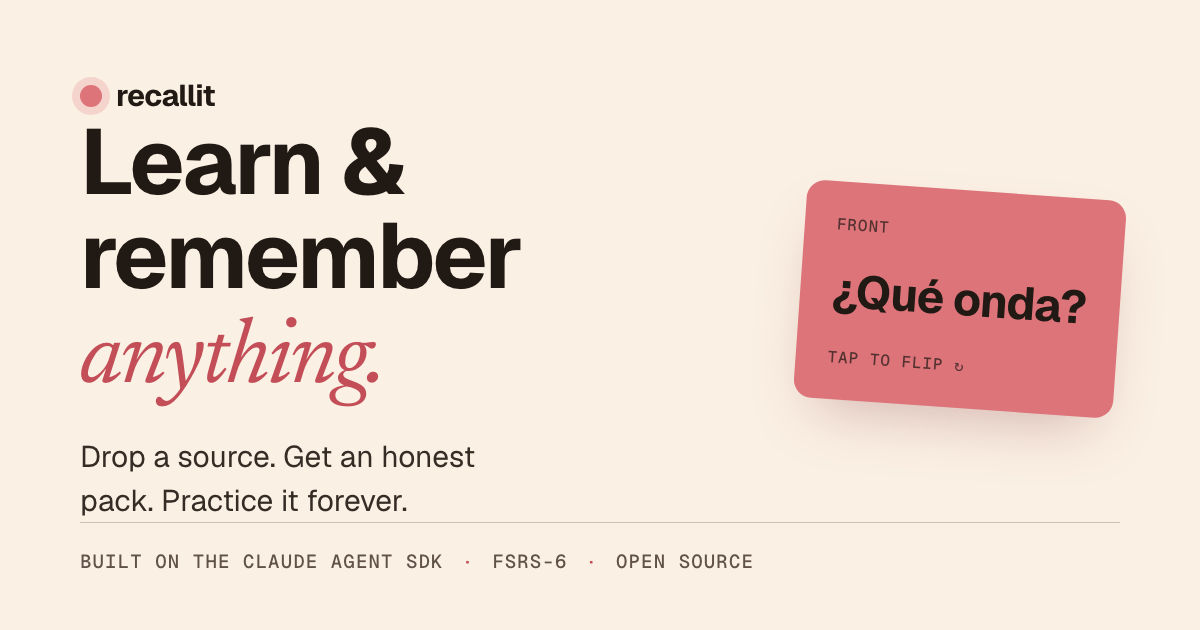
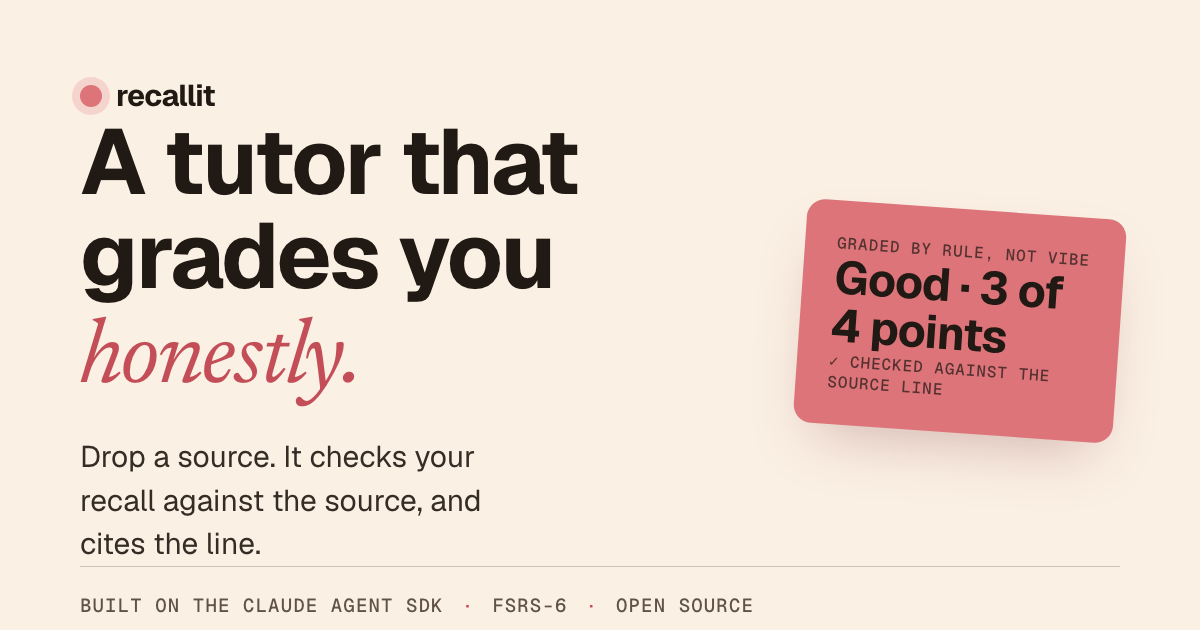
feat(marketing): reframe landing around the source-grounded tutor
Align the landing with the new vision + the simplify recs: lead with ONE hero
line ('Drop a source. Get a tutor that grades you honestly'), demote FSRS out
of the hero, keyless demo as the primary CTA, the wedge as the three pillars
(cites a line you can check / graded by rule not vibe / your files your call),
voice demoted to a one-line follow-on, one-deploy-one-user reframed as trust.
The hero + OG card now show the honest grade receipt. Plume tokens reused;
no em dashes; no overflow at 60rem/40rem. Built with /impeccable +
/emil-design-engineering + /frontend-design as lenses.

diff --git a/marketing/index.html b/marketing/index.html
@@ -3,26 +3,26 @@
   <head>
     <meta charset="utf-8" />
     <meta name="viewport" content="width=device-width, initial-scale=1" />
-    <title>recallit · learn &amp; remember anything</title>
+    <title>recallit · drop a source, get a tutor that grades you honestly</title>
     <meta
       name="description"
-      content="recallit turns any subject into spaced-repetition flashcards and brings them back right before you'd forget. A language, a programming language, a book, a film, anything you study can be a pack."
+      content="recallit turns any source (a book, a course, a paper, a language) into an honest study pack, then tests your recall and checks your answer against the source. Every card cites a line you can check, and code owns the grade, not the model."
     />
     <link rel="icon" href="favicon.svg" type="image/svg+xml" />
     <meta property="og:type" content="website" />
-    <meta property="og:title" content="recallit · learn &amp; remember anything" />
+    <meta property="og:title" content="recallit · a tutor that grades you honestly" />
     <meta
       property="og:description"
-      content="Drop a source. Get an honest pack. Practice it forever. It comes back right before you'd forget."
+      content="Drop a source. recallit tests your recall and checks your answer against the source, citing the exact line. Code owns the grade, not the model."
     />
     <meta property="og:image" content="og.png" />
     <meta property="og:image:width" content="1200" />
     <meta property="og:image:height" content="630" />
     <meta name="twitter:card" content="summary_large_image" />
-    <meta name="twitter:title" content="recallit · learn &amp; remember anything" />
+    <meta name="twitter:title" content="recallit · a tutor that grades you honestly" />
     <meta
       name="twitter:description"
-      content="Drop a source. Get an honest pack. Practice it forever. It comes back right before you'd forget."
+      content="Drop a source. recallit tests your recall and checks your answer against the source, citing the exact line. Code owns the grade, not the model."
     />
     <meta name="twitter:image" content="og.png" />
     <link rel="preconnect" href="https://fonts.googleapis.com" />
@@ -45,18 +45,18 @@
     <main id="top">
       <section class="wrap hero">
         <div class="hero__copy">
-          <span class="hero__kicker label">Recall engine</span>
-          <h1>Learn &amp; remember <em>anything.</em></h1>
+          <span class="hero__kicker label">Source-grounded tutor</span>
+          <h1>Drop a source. Get a tutor that <em>grades you honestly.</em></h1>
           <p class="hero__lede">
-            Drop in a source: a PDF, a repo, a web page, or just a topic you name. recallit builds an
-            honest pack of cards and brings each one back right before you'd forget. Practice by
-            typing, or out loud.
+            Point it at a book, a course, a paper, or a language. recallit builds an honest study
+            pack, then asks you to recall it in your own words and checks your answer against the
+            source, citing the exact line. It comes back before you'd forget.
           </p>
           <div class="hero__cta">
-            <a class="btn btn--primary" href="demo/index.html">Try it in 30 seconds →</a>
+            <a class="btn btn--primary" href="demo/index.html">Try it, no setup →</a>
             <a class="btn btn--ghost" href="https://github.com/ryanwaits/recallit">★ Star on GitHub</a>
           </div>
-          <p class="hero__note">Runs in your terminal or browser. Bun + TypeScript. Scheduling by <code>FSRS-6</code>.</p>
+          <p class="hero__note">Your cards are files on your disk. No accounts, no cloud. Runs in your terminal or browser.</p>
         </div>
 
         <div
@@ -64,18 +64,18 @@
           tabindex="0"
           role="button"
           aria-pressed="false"
-          aria-label="Example flashcard. Front: ¿Qué onda? Activate to reveal the answer."
+          aria-label="Example recall question. Front: Why is the engine topic-agnostic? Activate to reveal how recallit grades your answer."
         >
           <div class="flip__inner">
             <div class="flip__face flip__face--front">
-              <span class="flip__hint">Front</span>
-              <span class="flip__es">¿Qué onda?</span>
-              <span class="flip__hint">Tap to flip ↻</span>
+              <span class="flip__hint">Recall, in your words</span>
+              <span class="flip__es">Why is the engine topic-agnostic?</span>
+              <span class="flip__hint">Answer, then flip ↻</span>
             </div>
             <div class="flip__face flip__face--back">
-              <span class="flip__hint">Back</span>
-              <span class="flip__en">What's up? / How's it going?</span>
-              <span class="flip__hint">From the Mexican-Spanish pack</span>
+              <span class="flip__hint">Graded by rule, not vibe</span>
+              <span class="flip__en">Good · 3 of 4 key points</span>
+              <span class="flip__hint">✓ checked against the source line</span>
             </div>
           </div>
         </div>
@@ -91,38 +91,39 @@
 
       <section class="wrap section loop-section">
         <div class="section__head reveal">
-          <h2>Drop a source. Keep it forever.</h2>
+          <h2>Drop a source. Learn it for real.</h2>
           <p>
-            One honest loop. The cards trace back to your source, and the schedule is math, not a
-            guess.
+            One honest loop: what you study traces back to your source, and the grade is a rule, not
+            the model's mood.
           </p>
         </div>
         <ol class="loop">
           <li class="loop__step reveal">
             <span class="loop__num">01</span>
             <h3>Drop a source</h3>
-            <p>A PDF, a repo, a web page, or a topic you name. recallit reads it and writes the cards.</p>
+            <p>A book, a course, a paper, a repo, a language. recallit reads it and writes the pack.</p>
           </li>
           <li class="loop__step reveal">
             <span class="loop__num">02</span>
             <h3>Get an honest pack</h3>
-            <p>Every card cites a real quote from your source. Anything it can't verify is held back, not invented.</p>
+            <p>Every card cites a verbatim line from your source. What it can't verify, it holds back instead of inventing.</p>
           </li>
           <li class="loop__step reveal">
             <span class="loop__num">03</span>
-            <h3>Practice it forever</h3>
-            <p>Type or speak your answers. FSRS-6 brings each card back right before you'd forget.</p>
+            <h3>Get tested, graded honestly</h3>
+            <p>Recall it in your own words. recallit checks your answer against the source's points, grades it by rule, then brings it back before you'd forget.</p>
           </li>
         </ol>
       </section>
 
       <section class="wrap section" id="generate">
         <div class="section__head reveal">
-          <span class="label">Recorded run · real API call</span>
-          <h2>Watch the gate hold the line.</h2>
+          <span class="label">How it stays honest · recorded run</span>
+          <h2>The gate holds the line.</h2>
           <p>
             A real <code>recallit pack</code> run over this repo's own README, captured verbatim.
-            Each card must quote the source literally; the one it couldn't verify, it held back.
+            Each card must quote the source literally; the one it couldn't verify, it held back. No
+            model ever picks a rating: the answer is checked, code decides.
           </p>
         </div>
         <div class="gen reveal">
@@ -151,10 +152,11 @@
       <section class="examples">
         <div class="wrap section">
           <div class="section__head reveal">
-            <h2>If you can study it, it's a pack.</h2>
+            <h2>A fact, or a whole idea.</h2>
             <p>
-              A pack is just cards: a front, a back, and recallit handles the timing. The engine
-              knows nothing about the subject, so bring any one you like.
+              Drill a one-word answer or recall a full idea in your own words. recallit checks both
+              against your source the same honest way. The engine knows nothing about the subject, so
+              bring any one you like.
             </p>
           </div>
           <div class="gallery" aria-label="Example packs across subjects">
@@ -189,9 +191,9 @@
               <p class="mini__a">C, E, G.</p>
             </article>
             <article class="mini reveal">
-              <span class="mini__tag label">A paper</span>
-              <p class="mini__q">What did "Attention Is All You Need" propose?</p>
-              <p class="mini__a">The Transformer: sequence modeling by self-attention, no recurrence.</p>
+              <span class="mini__tag label">Comprehension</span>
+              <p class="mini__q">Explain what "Attention Is All You Need" proposed.</p>
+              <p class="mini__a">The Transformer: sequence modeling by self-attention, no recurrence. (graded on the points, not the wording)</p>
             </article>
             <article class="mini reveal">
               <span class="mini__tag label">Biology</span>
@@ -204,33 +206,34 @@
 
       <section class="wrap section">
         <div class="section__head reveal">
-          <h2>Why it sticks.</h2>
-          <p>Three things do the heavy lifting, so you don't have to.</p>
+          <h2>Why you can trust it.</h2>
+          <p>The hard part was never flashcards. It's grading you honestly, and proving it.</p>
         </div>
         <div class="cards">
           <article class="card reveal">
-            <span class="label">Spaced repetition</span>
-            <h3>Shows up before you forget</h3>
-            <p>recallit schedules every card with FSRS-6, the same memory math the best study apps use. Less cramming, more remembering.</p>
+            <span class="label">Honest by construction</span>
+            <h3>Cites a line you can check</h3>
+            <p>Every card, and every point it grades you on, traces to a verbatim line from your source. What it can't verify, it holds back instead of inventing.</p>
           </article>
           <article class="card reveal">
-            <span class="label">Voice</span>
-            <h3>Say it out loud</h3>
-            <p>Voice packs let you answer aloud and hear a tutor speak back. Built for anything you want to say, not just recognize.</p>
+            <span class="label">Code-owned grading</span>
+            <h3>Graded by rule, not vibe</h3>
+            <p>A deterministic rule scores your answer against the source's points. The tutor can examine and explain; it never picks the grade. No "the AI says you understood."</p>
           </article>
           <article class="card reveal">
-            <span class="label">Plain files</span>
-            <h3>Your cards, your files</h3>
-            <p>Every card is plain Markdown on your disk. Read them, edit them, back them up, hand a pack to a friend.</p>
+            <span class="label">Yours</span>
+            <h3>Your files, your call</h3>
+            <p>Your cards are plain files on your disk. No accounts, no cloud, no one can change your grade, including us.</p>
           </article>
         </div>
+        <p class="reveal voice-note">And it can talk: voice packs let you answer aloud and hear it back, on your own keys.</p>
       </section>
 
       <section class="examples" id="install">
         <div class="wrap section install__inner">
           <div class="reveal">
-            <h2>Run it with one command.</h2>
-            <p>No install: <code>bunx @waits/recallit</code> runs the CLI. Point it at a source to generate an honest pack, then practice in your terminal. For the voiced browser session, clone the repo and <code>bun run serve</code>.</p>
+            <h2>Run it on your own sources.</h2>
+            <p>The demo above needs no keys. When you're ready for your own material, <code>bunx @waits/recallit</code>: point it at a source to build a pack, then <code>daily</code> to study and be graded. (<code>pack</code> and <code>daily</code> run on your own <code>ANTHROPIC_API_KEY</code>; voice adds a voice key.)</p>
             <div class="install__cta">
               <a class="btn btn--primary" href="https://github.com/ryanwaits/recallit">★ Star on GitHub</a>
               <a class="btn btn--ghost" href="https://github.com/ryanwaits/recallit#readme">Read the docs →</a>
@@ -251,10 +254,10 @@ bunx @waits/recallit <span class="p">daily</span></pre>
 
       <section class="wrap">
         <div class="cta reveal">
-          <h2>Start remembering.</h2>
-          <p>Try the Spanish pack in a minute, or bring the subject you've been meaning to learn.</p>
+          <h2>Bring something you want to understand.</h2>
+          <p>Try the live demo in a minute, no keys, then point it at the book or course you've been meaning to learn.</p>
           <div class="hero__cta">
-            <a class="btn btn--primary" href="demo/index.html">Try it in 30 seconds →</a>
+            <a class="btn btn--primary" href="demo/index.html">Try it, no setup →</a>
             <a class="btn btn--ghost" href="https://github.com/ryanwaits/recallit">★ Star on GitHub</a>
           </div>
         </div>
@@ -262,7 +265,7 @@ bunx @waits/recallit <span class="p">daily</span></pre>
     </main>
 
     <footer class="wrap foot">
-      <p class="foot__statement">Learn &amp; remember <em>anything.</em></p>
+      <p class="foot__statement">An honest tutor for <em>anything.</em></p>
       <div class="foot__meta">
         <nav class="foot__links" aria-label="Footer">
           <a href="https://github.com/ryanwaits/recallit">GitHub</a>

diff --git a/marketing/og-card.html b/marketing/og-card.html
@@ -84,13 +84,13 @@
   <body>
     <span class="brand"><span class="dot"></span>recallit</span>
     <div class="copy">
-      <h1>Learn &amp; remember <em>anything.</em></h1>
-      <p class="sub">Drop a source. Get an honest pack. Practice it forever.</p>
+      <h1>A tutor that grades you <em>honestly.</em></h1>
+      <p class="sub">Drop a source. It checks your recall against the source, and cites the line.</p>
     </div>
     <div class="card">
-      <span class="tag">Front</span>
-      <span class="q">¿Qué onda?</span>
-      <span class="tag">Tap to flip ↻</span>
+      <span class="tag">Graded by rule, not vibe</span>
+      <span class="q">Good · 3 of 4 points</span>
+      <span class="tag">✓ checked against the source line</span>
     </div>
     <div class="strip">
       <span>Built on the Claude Agent SDK</span>

diff --git a/marketing/styles.css b/marketing/styles.css
@@ -312,6 +312,14 @@ a { color: inherit; }
 .card h3 { font-size: var(--text-lg); letter-spacing: var(--tracking-tight); }
 .card p { color: var(--color-ink-2); }
 
+.voice-note {
+  margin: var(--space-lg) auto 0;
+  max-width: 52ch;
+  text-align: center;
+  color: var(--color-muted);
+  font-size: var(--text-sm);
+}
+
 /* ── Install ─────────────────────────────────────────────────────── */
 .install__inner {
   display: grid;